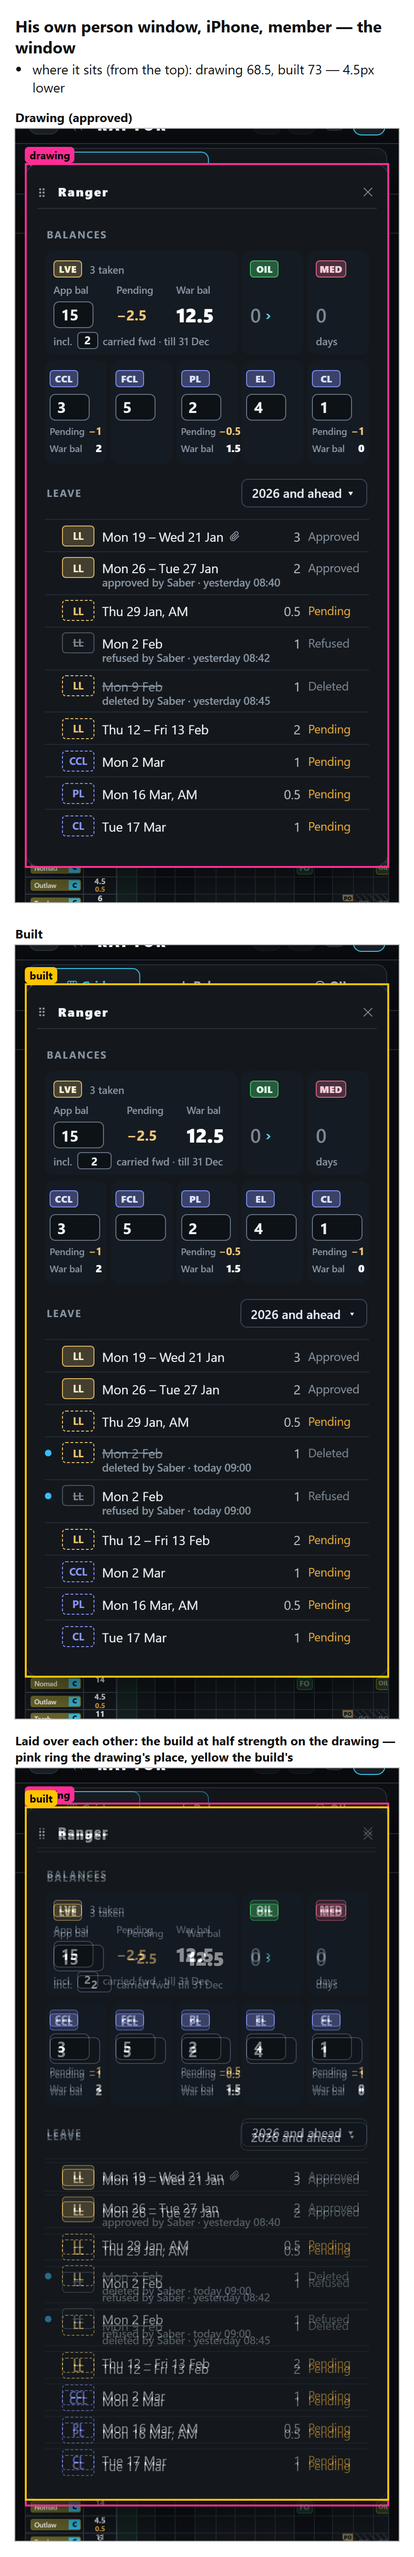
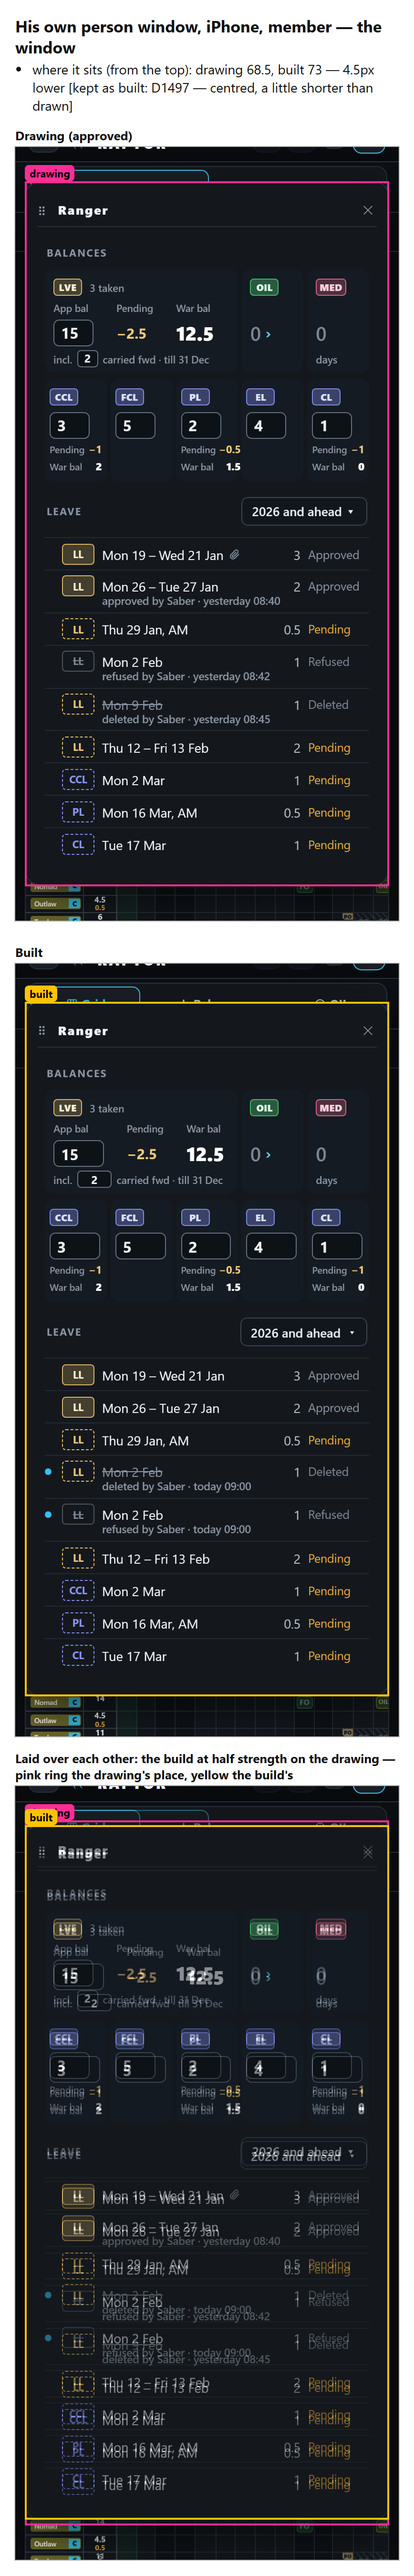
His "As recommended" (D1497): live M5a's window places kept, the iPhone locked page filed to put back
The drawing check's part list keeps the desktop window under My leave and the gear at the page top
and the iPhone window's place, each at the value the build has now (a kept entry may carry `build`,
so a further move is new — walk-scripts §10); the iPhone locked Balances page's read-only figures and
row are filed as [LW-BAL-PHONE-LOCKED-FIT]. D1497 read by one fresh reader, its three fixes taken.
The live run now reds only on that item.

diff --git a/DECISIONS.md b/DECISIONS.md
@@ -70,7 +70,7 @@ ruling, or an explicit no. **Not** ordinary task instructions ("run the tests", 
 | How we work | `.claude/rules/decisions/how-we-work.md` | in EVERY session | D1496, D1495, D1494, D1478, D1443, D1426, D1424, D1417, D1416, D1415, D1411, D1410, D1409, D1408, D1407, D1363, D1297, D1104, D1103, D1281, D1273, D1271, D1262, D1237, D1222, D1195, D1138, D1134, D1133, D1126, D1127, D1124, D1122, D1097, D1093, D1091, D1090, D1089, D1088, D1087, D1086, D1033, D1024, D994, D991, D976, D975, D974, D973, D972, D971, D970, D969, D942, D941, D926, D921, D906, D905, D904, D903, D902, D895, D887, D886, D885, D884, D878, D876, D874, D872, D871, D870, D869, D868, D867, D853, D852, D850, D847, D846, D835, D832, D822, D821, D820, D819, D813, D812, D808, D802, D811, D790, D787, D785, D775, D774, D766, D765, D761, D754, D726, D672, D667, D625, D623, D611, D610, D608, D607, D602, D601, D596, D595, D590, D588, D587, D568, D541, D499, D495, D493, D491, D490, D489, D487, D486, D485, D473, D466, D465, D453, D353, D351, D350, D349, D348, D347, D390, D343, D302, D228, D203, D201, D106, D90, D162, D148, D147, D144, D143, D141, D140, D138, D137, D136, D151, D89, D87, D86, D84, D78, D73, D72, D70, D69, D68, D67, D63, D62, D60, D59, D58, D57, D56, D54, D53, D29, D23, D22, D17, D16, D14, D13, D12, D11, D10, D9, D8, D7, D6, D5, D4 |
 | Tracker | `.claude/rules/decisions/tracker.md` | when a Tracker file is read (its code, docs, scripts, evidence) | D1406, D1405, D1171, D1170, D1136, D1135, D1132, D1018, D1015, D1014, D1007, D1006, D1005, D1004, D1003, D1002, D992, D989, D988, D987, D986, D985, D984, D983, D982, D981, D980, D979, D924, D922, D899, D801, D566, D564, D560, D474, D464, D462, D463, D377, D376, D375, D374, D373, D372, D371, D370, D191, D158, D157, D134, D132, D131, D130, D129, D128, D127, D126, D124, D123, D122, D121, D120, D64 |
 | People & accounts | `.claude/rules/decisions/people-accounts.md` | when an accounts, sign-in, Admin → Users, Quals, one-door or posting file is read (D390) | D1108, D1105, D1102, D1101, D1100, D1129, D1128, D1110, D993, D937, D935, D329, D328, D327, D326, D325, D323, D322, D321, D320, D310, D309, D308, D307, D306, D304, D303, D300, D299, D298, D297, D296, D295, D294, D293, D292, D290, D289, D288, D287, D286, D285, D284, D283, D282, D281, D280, D229, D227, D226, D225, D224, D223, D222, D221, D220, D219, D216, D215, D214, D213, D211, D204, D200, D218, D166, D165, D149 |
-| Leave War | `.claude/rules/decisions/leave-war.md` | when a Leave War file is read (its code, docs, e2e, evidence) | D1493, D1492, D1491, D1490, D1489, D1488, D1487, D1486, D1485, D1484, D1483, D1482, D1481, D1480, D1479, D1477, D1476, D1475, D1474, D1473, D1472, D1471, D1470, D1469, D1468, D1467, D1466, D1465, D1464, D1463, D1462, D1461, D1460, D1449, D1448, D1447, D1446, D1445, D1444, D1441, D1440, D1439, D1438, D1437, D1436, D1435, D1434, D1433, D1432, D1431, D1430, D1429, D1428, D1427, D1423, D1422, D1421, D1420, D1404, D1401, D1400, D1399, D1398, D1397, D1395, D1394, D1393, D1392, D1391, D1390, D1389, D1388, D1387, D1382, D1381, D1380, D1379, D1378, D1375, D1371, D1370, D1365, D1364, D1362, D1361, D1360, D1359, D1358, D1357, D1356, D1355, D1354, D1353, D1352, D1351, D1350, D1349, D1348, D1347, D1346, D1345, D1344, D1343, D1341, D1340, D1339, D1334, D1333, D1332, D1331, D1330, D1329, D1328, D1327, D1326, D1323, D1321, D1322, D1319, D1320, D1318, D1316, D1317, D1315, D1314, D1313, D1312, D1311, D1309, D1308, D1307, D1306, D1302, D1301, D1299, D1296, D1295, D1294, D1292, D1291, D1290, D1289, D1288, D1287, D1286, D1285, D1284, D1283, D1282, D1279, D1278, D1277, D1276, D1275, D1274, D1272, D1270, D1269, D1268, D1267, D1266, D1265, D1264, D1263, D1259, D1258, D1257, D1256, D1255, D1254, D1253, D1252, D1251, D1250, D1249, D1248, D1247, D1246, D1245, D1244, D1243, D1242, D1241, D1240, D1239, D1238, D1236, D1235, D1234, D1233, D1232, D1231, D1230, D1229, D1228, D1227, D1226, D1225, D1224, D1223, D1221, D1220, D1219, D1218, D1217, D1216, D1215, D1214, D1213, D1212, D1211, D1210, D1209, D1208, D1206, D1205, D1204, D1203, D1202, D1201, D1200, D1199, D1198, D1197, D1196, D1194, D1193, D1192, D1191, D1190, D1189, D1188, D1187, D1186, D1185, D1184, D1183, D1182, D1181, D1180, D1178, D1177, D1176, D1175, D1174, D1173, D1172, D1169, D1168, D1167, D1166, D1165, D1164, D1163, D1162, D1161, D1160, D1159, D1158, D1157, D1155, D1154, D1153, D1152, D1151, D1150, D1149, D1148, D1147, D1146, D1145, D1144, D1143, D1142, D1141, D1140, D1117, D1019, D1016, D1001, D1000, D998, D892, D891, D890, D883, D882, D881, D827, D823, D805, D679, D678, D677, D676, D674, D673, D670, D669, D461, D460, D418, D352, D335, D334, D333, D332, D331, D266, D265, D264, D262, D160, D159 |
+| Leave War | `.claude/rules/decisions/leave-war.md` | when a Leave War file is read (its code, docs, e2e, evidence) | D1497, D1493, D1492, D1491, D1490, D1489, D1488, D1487, D1486, D1485, D1484, D1483, D1482, D1481, D1480, D1479, D1477, D1476, D1475, D1474, D1473, D1472, D1471, D1470, D1469, D1468, D1467, D1466, D1465, D1464, D1463, D1462, D1461, D1460, D1449, D1448, D1447, D1446, D1445, D1444, D1441, D1440, D1439, D1438, D1437, D1436, D1435, D1434, D1433, D1432, D1431, D1430, D1429, D1428, D1427, D1423, D1422, D1421, D1420, D1404, D1401, D1400, D1399, D1398, D1397, D1395, D1394, D1393, D1392, D1391, D1390, D1389, D1388, D1387, D1382, D1381, D1380, D1379, D1378, D1375, D1371, D1370, D1365, D1364, D1362, D1361, D1360, D1359, D1358, D1357, D1356, D1355, D1354, D1353, D1352, D1351, D1350, D1349, D1348, D1347, D1346, D1345, D1344, D1343, D1341, D1340, D1339, D1334, D1333, D1332, D1331, D1330, D1329, D1328, D1327, D1326, D1323, D1321, D1322, D1319, D1320, D1318, D1316, D1317, D1315, D1314, D1313, D1312, D1311, D1309, D1308, D1307, D1306, D1302, D1301, D1299, D1296, D1295, D1294, D1292, D1291, D1290, D1289, D1288, D1287, D1286, D1285, D1284, D1283, D1282, D1279, D1278, D1277, D1276, D1275, D1274, D1272, D1270, D1269, D1268, D1267, D1266, D1265, D1264, D1263, D1259, D1258, D1257, D1256, D1255, D1254, D1253, D1252, D1251, D1250, D1249, D1248, D1247, D1246, D1245, D1244, D1243, D1242, D1241, D1240, D1239, D1238, D1236, D1235, D1234, D1233, D1232, D1231, D1230, D1229, D1228, D1227, D1226, D1225, D1224, D1223, D1221, D1220, D1219, D1218, D1217, D1216, D1215, D1214, D1213, D1212, D1211, D1210, D1209, D1208, D1206, D1205, D1204, D1203, D1202, D1201, D1200, D1199, D1198, D1197, D1196, D1194, D1193, D1192, D1191, D1190, D1189, D1188, D1187, D1186, D1185, D1184, D1183, D1182, D1181, D1180, D1178, D1177, D1176, D1175, D1174, D1173, D1172, D1169, D1168, D1167, D1166, D1165, D1164, D1163, D1162, D1161, D1160, D1159, D1158, D1157, D1155, D1154, D1153, D1152, D1151, D1150, D1149, D1148, D1147, D1146, D1145, D1144, D1143, D1142, D1141, D1140, D1117, D1019, D1016, D1001, D1000, D998, D892, D891, D890, D883, D882, D881, D827, D823, D805, D679, D678, D677, D676, D674, D673, D670, D669, D461, D460, D418, D352, D335, D334, D333, D332, D331, D266, D265, D264, D262, D160, D159 |
 | Scheduler & amendments | `.claude/rules/decisions/scheduler.md` | when a scheduler, board, engine, amendment or storage file is read | D1442, D1412, D1383, D1107, D1106, D1099, D1098, D1131, D1130, D1121, D1120, D1119, D1118, D1116, D1115, D1114, D1113, D1112, D1111, D1109, D1085, D1084, D1083, D1081, D1080, D1067, D1066, D1065, D1064, D1063, D1062, D1061, D1060, D1048, D1047, D1046, D1045, D1044, D1043, D1042, D1041, D1040, D1039, D1038, D1037, D1036, D1035, D1034, D1032, D1031, D1030, D1029, D1028, D1027, D1026, D1021, D1020, D1017, D1013, D1012, D1011, D1010, D1009, D997, D995, D958, D957, D955, D950, D949, D947, D945, D940, D938, D936, D933, D932, D931, D929, D928, D925, D901, D877, D860, D845, D844, D842, D841, D840, D839, D838, D837, D836, D834, D833, D831, D830, D828, D825, D824, D815, D809, D807, D806, D800, D797, D796, D776, D769, D778, D767, D762, D760, D759, D757, D756, D755, D753, D751, D748, D747, D743, D742, D740, D739, D737, D736, D735, D734, D733, D731, D717, D714, D713, D711, D710, D706, D703, D702, D686, D682, D716, D668, D665, D663, D661, D660, D645, D644, D642, D641, D640, D637, D636, D634, D605, D603, D600, D599, D598, D597, D594, D562, D561, D558, D555, D554, D553, D551, D550, D548, D546, D544, D537, D535, D532, D531, D530, D529, D527, D526, D525, D524, D523, D522, D521, D520, D519, D518, D517, D516, D514, D513, D512, D511, D510, D509, D507, D506, D505, D504, D503, D502, D501, D500, D498, D497, D488, D482, D481, D479, D478, D475, D472, D471, D469, D454, D452, D451, D450, D356, D355, D367, D363, D362, D361, D360, D346, D345, D344, D340, D339, D338, D337, D279, D278, D277, D276, D275, D274, D272, D271, D270, D263, D212, D189, D188, D187, D186, D185, D184, D183, D179, D178, D177, D176, D175, D174, D172, D171, D170, D169, D168, D167, D119, D118, D117, D116, D114, D113, D111, D110, D109, D107, D105, D103, D102, D101, D100, D99, D98, D97, D96, D95, D94, D93, D92, D91, D161, D77, D66, D65, D51, D50, D47, D45, D44, D41, D40, D39, D38, D37, D36, D33, D27 |
 | The Inputs pages | `.claude/rules/decisions/inputs.md` | when a file of the Inputs list or calendar, the SANS calendar, the Calendar window, or an input's own window or card is read | D1413, D1396, D1386, D1385, D1384, D1377, D1376, D1374, D1373, D1372, D1369, D1368, D1367, D1310, D1305, D1304, D1300, D1298, D1293, D1280, D1179, D1139, D1137, D1125, D1123, D1096, D1095, D1025, D1023, D1022, D999, D996, D977, D968, D967, D965, D963, D961, D960, D959, D953, D952, D948, D927, D920, D919, D917, D916, D910, D909, D908, D900, D897, D893, D879, D861, D854, D851, D849, D848, D795, D792, D786, D777, D773, D771, D770, D768, D763, D732, D729, D728, D727, D725, D724, D723, D722, D721, D720, D719, D712, D709, D707, D705, D704, D701, D698, D697, D696, D695, D694, D693, D692, D691, D689, D688, D687, D685, D684, D683, D681, D675, D671, D664, D659, D658, D657, D656, D655, D653, D652, D651, D650, D649, D648, D647, D646, D639, D638, D635, D633, D632, D631, D630, D629, D628, D627, D626, D624, D622, D621, D620, D619, D618, D617, D584, D583, D582, D581, D577, D576, D574, D572, D570, D569, D547, D364 |
 | OIL | `.claude/rules/decisions/oil.md` | when an OIL, Leave War, placeholder-puck or publishing file is read | D1094, D1008, D978, D923, D865, D863, D862, D818, D816, D814, D804, D793, D783, D782, D781, D606, D592, D591, D470, D402, D401, D400, D261, D260, D163, D142, D82, D81, D80, D79, D52, D49, D48, D43, D42, D35, D32, D31, D28, D26, D25, D24, D21, D19, D15, D2, D1 |

diff --git a/.claude/decisions-full/leave-war.md b/.claude/decisions-full/leave-war.md
@@ -8,6 +8,7 @@ change tail. Newest first; each row keeps the date it was recorded.
 
 | # | Date | His ruling, in his words where short enough | What it means | Where it lives now |
 |---|---|---|---|---|
+| D1497 | 29 Oct 26 | *"As recommended"* — to the drawing check's page (round 2), the three differences its run found on the live M5a after D1493's fixes, each with a recommendation | **On live M5a the desktop person window stays under My leave and the gear when the page is at its top, and the iPhone person window keeps its place; the iPhone's locked Balances page goes back to its drawing — its read-only figures 10px further left, off the column's right edge, and Ranger's row 6px higher.** The first two are kept in the drawing check's part list with this ruling; **the agent's own:** each is kept at the place the build has now, so a further move still turns the check red; the third is a fix to build, filed as [LW-BAL-PHONE-LOCKED-FIT]. **The agent's reading:** the row's 6px is whatever stands above it on the locked page (not looked into); the fix finds it before changing anything. | `raptor-port/scripts/drawcheck/specs/lw-m5a.mjs` (its kept list — D1497); `raptor-port/docs/walk-scripts.md` §10 (a kept place carries its value — D1497); filed as [LW-BAL-PHONE-LOCKED-FIT] |
 | D1493 | 29 Oct 26 | *"All as recommended."* — to the M5a drawing-differences page (A–G and the readings R1–R11, each with its recommendation), after his *"Merge live after u check"* | **M5a's drawing differences are settled as recommended: the desktop person window back to its drawn place, its leave lines flat rows with only the dot for new, the Balances names set left, a member's locked amber figures on their row's line; the rest stand as built.** The rest: the switch, the hyphen, the phone's search line and readings R1–R11. **The agent's readings:** (1) A, B, D and E are fixed on M5a's branch before its merge, each checked beside its drawing; the branch then goes live on his "merge live" of 29 Oct 26 once its checks are green; (2) R1–R11 are the readings listed on the page (tabs dropping icons at 701–760 wide; ±999 in small letters; the window ~11px wider; a grade given on 1 Jan itself counts from the next 1 Jan; Approvals' DAYS per request; MED this year only; a never-opened window shows all as new; the who-and-when words and ages; a deleted leave struck through; the bid window's backdrop over the person window; phone tabs never below their words' width); (3) the Grades window already matches its drawing — no choice. | `raptor-port/docs/handpass/parts/lw-m5a/walk-triage.md` (§Differences — his picks), the evidence sheet `raptor-port/docs/handpass/2026-10-28-lw-m5a.md` §10 |
 | D1492 | 28 Oct 26 | *"as recommended"* — M5a's build spec page (`raptor-port/docs/mock/lw-overhaul/m5-questions.html`, version 16), its 24 readings "built as recommended, yours to strike" | **The 24 readings of the Leave War M5a build spec stand as put to him, none struck: among them CCL, FCL, PL, EL and CL come down by themselves as approved, a balance changes only by its box, approved leave and 1 Jan, and D1473's example reads 21, 52, 52 under D1479.** The others, as the page put them: leave approved when App bal was typed takes nothing off, a leave lengthened later only its new days, a deleted one giving its days back; days given back first cancel days taken that year, the rest to this year's leave, never to carried forward — so after 1 Jan the war can show up to that many days more than the official app until App bal is typed again; never typed counts from 0 at the war's first year; "taken" up to today; the person window lists leave only; his own changes never dotted; a balance change is a history line, no bell; the Balances page lists the grid's people; halves only, below zero allowed; a deleted grade's people become No grade from that day; the roll-over only after the typed day; the tabs' icons dropped under 400 wide; My leave's pending counted as charged; the grid's LVE figure opens the person window; OIL never typed, the go-live opening OIL filed as [LW-OIL-OPENING-AWARD]; a date no period covers charged by the plain rule; a pending day of an ended carried-forward shows no pending figure; Days taken counts MED, CSE and OD as calendar days; a late approval for the old year counts in it; a name on the Balances page opens his person window; a pilot's run past 15 days shows in Pending, not in Approvals' DAYS. It narrows D1473's worked example (its figures before 4 Jan) and confirms D1148 on the Balances page. Built with M5a, [LW-OVERHAUL]. | `raptor-port/docs/superpowers/plans/2026-10-28-lw-m5a-build-spec.md` (§6 — D1492); `raptor-port/docs/superpowers/specs/2026-10-21-leave-war-overhaul.md` §5 (D1492) |
 | D1491 | 28 Oct 26 | *"as recommended"* — M5a's build spec page (version 16), question 2: the grid's bar for giving several people extra LVE at once (recommended: let it go; or keep it, its days added to App bal) | **The Leave War grid's drag down the LVE figures beside the names, and the bar it raises to give several people extra LVE at once, are removed, as the grid's FIGURES drawer is (D1245): a leave balance changes only by its box on the Balances page or the person window, by approved leave and by 1 Jan.** App bal is typed from the official leave app (D1479), so an extra day granted officially is already in the figure typed. **The agent's note:** the OIL tracker keeps its own award form (D1255). Pictured: `raptor-port/docs/mock/lw-overhaul/full/m5a/m5a-q2-grant-desk.png` (today's main). Built with M5a, [LW-OVERHAUL]. | `raptor-port/docs/superpowers/plans/2026-10-28-lw-m5a-build-spec.md` (§6 — D1491); `raptor-port/docs/ui-contracts.md` (the balance bar — D1491) |

diff --git a/OUTSTANDING.md b/OUTSTANDING.md
@@ -90,6 +90,7 @@ Every item was checked against git and the code on 18 Oct 26. **Re-order this li
 - [OIL-INERT-TAP-SILENT] — in OIL Earn a tap on a puck that cannot earn says nothing — should it say why: his question.
 
 **Leave War**
+- [LW-BAL-PHONE-LOCKED-FIT] — the iPhone's locked Balances page back to its drawing: the read-only figures 10px further left, the row 6px higher (his D1497; found by the drawing check).
 - [LW-DELETED-NO-ROW-APPROVE] — a man deleted before he ever arrived can still have a past pending bid approved (older than M4; rare).
 - [LW-LEAVE-SCROLL-CARRY] — leaving the Leave War with its grid scrolled down, Edit Schedule opens scrolled down too (older; found 28 Oct 26).
 - [KBS-LW-SHEETS] — the Leave War's sheets and bid windows place themselves the moment the phone pans for the keys; by the keyboard job's reading the same jump-then-slide class D1412 forbids; drawn for him if he sees it there (named under D852, 27 Oct 26).
@@ -317,6 +318,9 @@ Found by the walkers of `raptor-port/docs/handpass/2026-10-25-lw-night.md` (repo
 
 ### [LW-PICK-HELD-MARK] The tapped day stays marked and in view while its bid window is open (his D1289, D1290 — 24 Oct 26, his look at pull request 569)
 **What:** on the Leave War a day tapped to open its bid window wears the grid's cyan selection mark (`matrix.css .selcell`, the drag-selection's look) until the window closes or the leave is placed (D1289); on a phone, when the window opens over what was picked, the grid scrolls so it stands just above the window (D1290). **And his question the same message:** can the one-day bid window be less tall — put to him with pictures of ways to do it, each naming the ruling it would change (D1144's day line, D1212's rows). **Place:** with the M3 follow-ups on `claude/lw-m3-placing-leave` (pull request 569), after his answer on the pictures; the design guide's lesson 45.
+
+### [LW-BAL-PHONE-LOCKED-FIT] The iPhone's locked Balances page back to its drawing (his D1497 — 29 Oct 26)
+**Place:** a small Leave War fix, with M5b or on its own — his choice of timing. **What:** on a member's locked Balances page on a phone, Ranger's read-only figures (App bal 15, CCL 3 — the two measured) stand flush with their column's right edge, 10px right of the drawing's; the page told him it shows on every row, and that the other figures do the same is the agent's reading, checked at the fix (`m5c-c2-phone-locked`, recorded in `raptor-port/docs/mock/lw-overhaul/drawcheck/m5a/balances-phone-locked.json`), and Ranger's row stands 6px lower than drawn — what above it adds the 6px was not looked into. **Done when:** `node scripts/drawcheck/check.mjs scripts/drawcheck/specs/lw-m5a.mjs --dist dist --states balances-phone-locked` is green on those parts (D1495), and the walk's phone pictures of the locked page are opened. **Found:** by the drawing check's run on live M5a (`raptor-port/docs/img/handpass/2026-10-29-drawcheck-m5a-live/report.md`), 29 Oct 26.
 
 ### [LW-OVERHAUL] The Leave War's major overhaul, taking the good things from a colleague's app (his word, 21 Oct 26 — D1140)
 **M3's leftovers, from its fresh Opus read (24 Oct 26 — `raptor-port/docs/handpass/parts/lw-m3/read-opus.md`, findings 7 and 8; not built in M3):** (7) — **BUILT 27 Oct 26 with M4 (9.3a): the grid notice keeps the bid's remarks and documents and offers them onto the replacing leave of the same man (`sync.ts replacedCarry`, `ui/DayList.tsx`; `m4ride.test.ts`); a member's own filing over his own bid leaves no notice, as before, so his own words are not carried — the build's reading** — a bid replaced by a clashing Inputs-page leave or medical drops its documents and remarks from every record (`leavewar/inputgate.ts replaceClashingBids` writes a notice carrying neither) — carry them onto the same man's replacing leave, or keep them on the notice; (8) the 20-document cap on a request is silent (a 21st file picked disappears) and the Inputs page has none — one cap for both, said on screen. And from the walk, older and met in passing: an approved leave's one-record window has no "Back to bid" (the day's list has it); a drag made while a drag-selection window stays open does not replace its selection.

diff --git a/HANDOFF.md b/HANDOFF.md
@@ -28,8 +28,8 @@ the later merge keeps both (D78).
 - **Guide wording:** `raptor-port/docs/superpowers/specs/2026-10-29-drawing-check-guide-wording.md` (bug-check order §7.0 and §7.10, walk-scripts §10 — which replaces the M5a branch's placeholder). Read by one fresh, blind Opus reader (approve with 16 fixes — all taken, two in the script: a kept difference must name its one kind, and the iPhone states added); the two ChatGPT reads it went without are on [NO-ASTRA-LIST]; his "Yes" (D1495): now in `raptor-port/docs/bug-check-order.md` §7.0 and §7.10 and `raptor-port/docs/walk-scripts.md` §10 (the placeholder replaced; its header names §10 the host's). Auto-fix found on for 587 and switched off (D1090).
 - **His page:** https://claude.ai/artifact/EoPdSYkENKPr7rmstWCY7W (the repo's `raptor-port/docs/img/handpass/2026-10-29-drawcheck-m5a/drawing-check-page.html`) — the proof pictures and one question: may the check become a standing step of every build with an approved drawing (recommended: yes).
 - **His D1496 (29 Oct 26):** "I would like all mockups to standardise the design to the rest of the app" — every mock-up draws each part the way the app already draws that kind of part; one that differs is named to him. Lesson 68 in `raptor-port/docs/design-practices.md` §9. The agent's reading (3): M5b's drawings are checked against it before M5b is built.
-- **Pick up here:** his "merge live" for 587 (it carries scripts, so not notes-only — D1407). Run on live main (cdb984e39, `raptor-port/docs/img/handpass/2026-10-29-drawcheck-m5a-live/report.md`): the D1493 fixes hold (leave lines, names, amber figure match); three differences left, on his page with recommendations — (1) the desktop window under My leave and the gear at the page top, 66px lower than drawn: keep; (2) the iPhone locked page's figures 10px right and row 6px lower: put back; (3) the iPhone window 4.5px lower, being 11px shorter and centred: keep. His answer goes into the part list's kept list or an M5a follow-up fix. The next M5b chat runs the check on its screens and draws to D1496.
-- **Notes:** rulings D1495–D1496 (short lines read by one fresh reader, D138); design lesson 68 (this branch held 68); observations 739–740. Throwaway copies `C:\dc-794`, `C:\dc-base`, `C:\dc-main` (junctioned `node_modules`) — his to delete once 587 is live.
+- **Pick up here:** his "merge live" for 587 (it carries scripts, so not notes-only — D1407). Run on live main (cdb984e39, `raptor-port/docs/img/handpass/2026-10-29-drawcheck-m5a-live/report.md`): the D1493 fixes hold (leave lines, names, amber figure match); three differences left, on his page with recommendations — (1) the desktop window under My leave and the gear at the page top, 66px lower than drawn: keep; (2) the iPhone locked page's figures 10px right and row 6px lower: put back; (3) the iPhone window 4.5px lower, being 11px shorter and centred: keep. His answer, "As recommended" (D1497): (1) and (3) kept in the part list at their present place; (2) filed as [LW-BAL-PHONE-LOCKED-FIT]. The live run now reds only on (2). The next M5b chat runs the check on its screens and draws to D1496.
+- **Notes:** rulings D1495–D1497 (each short line read by one fresh reader, D138, its fixes taken); design lesson 68 (this branch held 68); observations 739–740. Throwaway copies `C:\dc-794`, `C:\dc-base`, `C:\dc-main` (junctioned `node_modules`) — his to delete once 587 is live.
 <!-- /now -->
 <!-- now:claude/leave-war-m5a-screens-ced9d7 -->
 ### `claude/leave-war-m5a-screens-ced9d7` — M5a LIVE (pull request 586, his "merge live", 29 Oct 26) — remove this block at the next handoff once its residue is filed

diff --git a/raptor-port/docs/img/handpass/2026-10-29-drawcheck-m5a-live/report.md b/raptor-port/docs/img/handpass/2026-10-29-drawcheck-m5a-live/report.md
@@ -1,8 +1,8 @@
 # Drawing check — Leave War M5a
 
-Build: `main at cdb984e39 (M5a live, with the D1493 fixes)` · run 29 Oct 2026, 06:51 · tolerance 2px
+Build: `main at cdb984e39 (M5a live, with the D1493 fixes)` · run 29 Oct 2026, 06:58 · tolerance 2px
 
-**RED** — 5 difference(s) unexplained, 21 kept as built by his ruling, 0 screen(s) not checked.
+**RED** — 3 difference(s) unexplained, 23 kept as built by his ruling, 0 screen(s) not checked.
 
 ## The person window, desktop, admin (`person-desk`, 1536 × 864 at 1.25)
 
@@ -25,7 +25,7 @@ Drawing: `docs/mock/lw-overhaul/full-m5a-person.mjs` → `m5a-p2-desk-drawn.png`
 
 | Part | Difference | Drawing | Built | |
 |---|---|---|---|---|
-| the window | where it sits (from the top) — 66px lower | 64 | 130 | **unexplained** · [picture](person-desk-top--window.png) |
+| the window | where it sits (from the top) — 66px lower | 64 | 130 | kept as built: D1497 — under My leave and the gear at the page top, covering neither · [picture](person-desk-top--window.png) |
 | the window's title bar | matches | | | |
 
 ## His own person window, iPhone, member (`person-phone`, 402 × 874 at 3)
@@ -34,7 +34,7 @@ Drawing: `docs/mock/lw-overhaul/full-m5a-person.mjs` → `m5a-p4-phone-own.png` 
 
 | Part | Difference | Drawing | Built | |
 |---|---|---|---|---|
-| the window | where it sits (from the top) — 4.5px lower | 68.5 | 73 | **unexplained** · [picture](person-phone--window.png) |
+| the window | where it sits (from the top) — 4.5px lower | 68.5 | 73 | kept as built: D1497 — centred, a little shorter than drawn · [picture](person-phone--window.png) |
 | the window's title bar | matches | | | |
 | the LVE tile | matches | | | |
 | the year picker | matches | | | |

diff --git a/.claude/rules/decisions/leave-war.md b/.claude/rules/decisions/leave-war.md
@@ -56,6 +56,7 @@ rules — `raptor-port/docs/superpowers/specs/2026-09-20-one-absence-behaviour-r
 
 | # | Date | The rule |
 |---|---|---|
+| D1497 | 29 Oct 26 | On live M5a the desktop person window stays under My leave and the gear when the page is at its top, and the iPhone person window keeps its place; the iPhone's locked Balances page goes back to its drawing — its read-only figures 10px further left, off the column's right edge, and Ranger's row 6px higher. |
 | D1493 | 29 Oct 26 | M5a's drawing differences are settled as recommended: the desktop person window back to its drawn place, its leave lines flat rows with only the dot for new, the Balances names set left, a member's locked amber figures on their row's line; the rest stand as built. |
 | D1492 | 28 Oct 26 | The 24 readings of the Leave War M5a build spec stand as put to him, none struck: among them CCL, FCL, PL, EL and CL come down by themselves as approved, a balance changes only by its box, approved leave and 1 Jan, and D1473's example reads 21, 52, 52 under D1479. |
 | D1491 | 28 Oct 26 | The Leave War grid's drag down the LVE figures beside the names, and the bar it raises to give several people extra LVE at once, are removed, as the grid's FIGURES drawer is (D1245): a leave balance changes only by its box on the Balances page or the person window, by approved leave and by 1 Jan. |

diff --git a/raptor-port/docs/walk-scripts.md b/raptor-port/docs/walk-scripts.md
@@ -326,7 +326,8 @@ and `selftest.mjs`. The worked example is M5a's (`specs/lw-m5a.mjs`). When it is
 - **Each difference goes to him side by side (D1426)** — the report's pictures are that page's pictures. One he keeps
   goes into the part list's `accepted` list — `{ state, part, check, why }`, `why` naming his ruling — with `check` set
   to the one kind of difference he kept (place, width, fill…), so a new difference in the same part still turns the
-  check red (the script refuses an entry without it); the report still shows the kept one, marked.
+  check red (the script refuses an entry without it); the report still shows the kept one, marked. A kept place or
+  size also carries the value the build had (`build`), so a further move of that part is a new difference (added with D1497, 29 Oct 26 — the agent's own way of keeping what he kept).
 - **After any change to the comparing**, run `node scripts/drawcheck/selftest.mjs` (it feeds the comparing each kind
   of difference M5a showed, and each look that must not count, and fails on a miss); after a change to the measure,
   the recorder or the runner, re-run the check on M5a's build at 794346689 and compare its report with the committed
